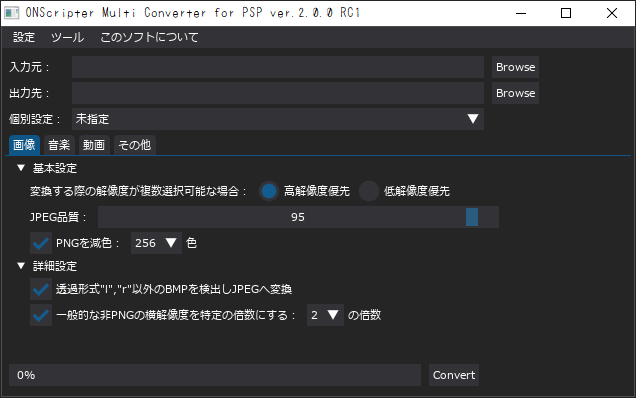
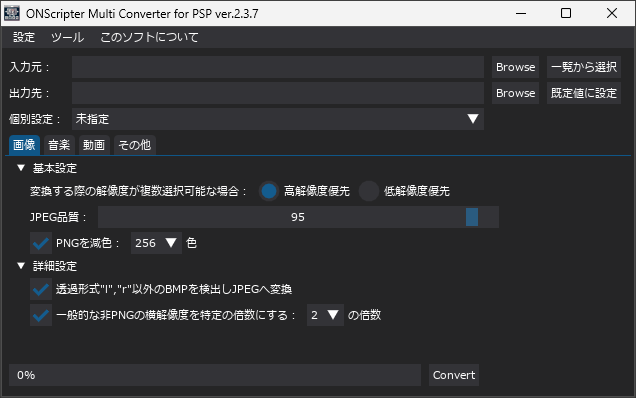
📝 savenumber上書き機能追加

diff --git a/src/hardwarevalues_config.py b/src/hardwarevalues_config.py
@@ -44,6 +44,8 @@ hardwarevalues_dict = {
 			'etc_0txtnoscreenshot': '利用する(関数上書き)',
 			'etc_0txtmaxkaisoupage_chk': True,
 			'etc_0txtmaxkaisoupage_num': '3',
+			'etc_0txtoverwritesavenumber_chk': False,
+			'etc_0txtoverwritesavenumber_num': '10',
 			'etc_0txtsetwindowbigfont_chk': True,
 			'etc_0txtskipokcancelbox_chk': True,
 			'etc_0txtskipyesnobox_chk': True,
@@ -95,6 +97,8 @@ hardwarevalues_dict = {
 			'etc_0txtnoscreenshot': '利用する(関数上書き)',
 			'etc_0txtmaxkaisoupage_chk': True,
 			'etc_0txtmaxkaisoupage_num': '10',
+			'etc_0txtoverwritesavenumber_chk': False,
+			'etc_0txtoverwritesavenumber_num': '10',
 			'etc_0txtsetwindowbigfont_chk': False,
 			'etc_0txtskipokcancelbox_chk': True,
 			'etc_0txtskipyesnobox_chk': True,
@@ -146,6 +150,8 @@ hardwarevalues_dict = {
 			'etc_0txtnoscreenshot': '利用する(関数上書き)',
 			'etc_0txtmaxkaisoupage_chk': True,
 			'etc_0txtmaxkaisoupage_num': '3',
+			'etc_0txtoverwritesavenumber_chk': False,
+			'etc_0txtoverwritesavenumber_num': '10',
 			'etc_0txtsetwindowbigfont_chk': True,
 			'etc_0txtskipokcancelbox_chk': True,
 			'etc_0txtskipyesnobox_chk': True,
@@ -197,6 +203,8 @@ hardwarevalues_dict = {
 			'etc_0txtnoscreenshot': '利用する(関数上書き)',
 			'etc_0txtmaxkaisoupage_chk': False,
 			'etc_0txtmaxkaisoupage_num': '20',
+			'etc_0txtoverwritesavenumber_chk': False,
+			'etc_0txtoverwritesavenumber_num': '10',
 			'etc_0txtsetwindowbigfont_chk': False,
 			'etc_0txtskipokcancelbox_chk': False,
 			'etc_0txtskipyesnobox_chk': False,

diff --git a/src/ons_script.py b/src/ons_script.py
@@ -286,9 +286,12 @@ def onsscript_check_txtmodify(values: dict, values_ex: dict, ztxtscript: str, ov
 	
 	#最大回想ページ数設定
 	if values['etc_0txtmaxkaisoupage_chk']:
-		mk = str(int(values['etc_0txtmaxkaisoupage_num']))
-		ztxtscript = onsscript_check_txtmodify_adddefsub(ztxtscript, f'maxkaisoupage {mk}', '')#本当はdefsub追加用の関数だが流用
-	
+		ztxtscript = onsscript_check_txtmodify_adddefsub(ztxtscript, f'maxkaisoupage {values['etc_0txtmaxkaisoupage_num']}', '')#本当はdefsub追加用の関数だが流用
+
+	#最大セーブ数設定
+	if values['etc_0txtoverwritesavenumber_chk']:
+		ztxtscript = onsscript_check_txtmodify_adddefsub(ztxtscript, f'savenumber {values['etc_0txtoverwritesavenumber_num']}', '')#本当はdefsub追加用の関数だが流用
+
 	#setwindowのフォントサイズ変更(PSP解像度無視変換時は無効)
 	if values['etc_0txtsetwindowbigfont_chk'] and (not override_resolution):
 

diff --git a/src/ui_gui.py b/src/ui_gui.py
@@ -595,6 +595,18 @@ def gui_main(version, hw_key, input_dir_param, output_dir_param):
 								)
 							with dpg.group(horizontal=True):
 								dpg.add_checkbox(
+									label='savenumber上書き：',
+									default_value=values_default['etc_0txtoverwritesavenumber_chk'],
+									tag='etc_0txtoverwritesavenumber_chk',
+								)
+								dpg.add_combo(
+									items=[str(i) for i in range(1, 21)],#1から20をstr型で保持したlist
+									default_value=values_default['etc_0txtoverwritesavenumber_num'],
+									fit_width=True,
+									tag='etc_0txtoverwritesavenumber_num',
+								)
+							with dpg.group(horizontal=True):
+								dpg.add_checkbox(
 									label='setwindow/setwindow3文字潰れ防止',
 									default_value=values_default['etc_0txtsetwindowbigfont_chk'],
 									tag='etc_0txtsetwindowbigfont_chk',

diff --git a/src/_main.py b/src/_main.py
@@ -16,7 +16,7 @@ from ui_cli import cli_main
 
 def main(use_cli, hardware, input_dir, output_dir):
 	'''ONS向け画像/音源/動画&シナリオ変換ツール'''
-	version = '2.3.6'
+	version = '2.3.7'
 
 	if os.name != 'nt': raise Exception('Windows以外では起動できません')
 	elif use_cli: cli_main(version, hardware, input_dir, output_dir)#これ今うまく動いてなさそう?要修正

diff --git a/README_setting.md b/README_setting.md
@@ -1,3 +1,7 @@
+# ツールの設定
+ ![インターフェース](./md_ui_full.png)<br>
+ ※画像は古いバージョンや開発中バージョンの場合があります<br>
+
 ## メニューバー
  - **設定 - CPU使用率低減モード**<br>
  画像や音楽の並列処理数を抑える機能です<br>
@@ -33,11 +37,13 @@
 ## 上段メニュー
  - **入力元**<br>
  [Browse]からゲーム用ディレクトリを指定します<br>
+ v2.3.7から、自動的にゲームを検出して一覧表示する[一覧から選択]も利用できるようになりました<br>
 
  - **出力先**<br>
  [Browse]から出力先の任意のディレクトリを指定します<br>
  実際は`result_{選択したハード名}_{入力元のディレクトリ名}`へ保存されます<br>
  ちなみにディレクトリ名が競合した場合元のデータを**勝手に消す**ので注意！<br>
+ v2.3.7から、デスクトップに自動設定する[既定値に設定]も利用できるようになりました<br>
 
  - **個別設定**<br>
  元々は"ONSコンバータ"として、別リポジトリで管理していたものです<br>
@@ -133,6 +139,11 @@
  - **maxkaisoupage最大値指定**<br>
  バックログで遡れるテキスト数を制限します<br>
  下げれば下げるほど突然のフリーズや謎のセーブ失敗が発生しにくくなります<br>
+
+ - **savenumber上書き**<br>
+ セーブデータの最大数を変更します<br>
+ NScripter標準のセーブ画面を使っていない作品の場合は、<br>
+ 「textgosub命令無効化」も併用してください<br>
 
  - **setwindow/setwindow3文字潰れ防止**<br>
  表示する際に小さすぎて読めないと思われる文字を、<br>

diff --git a/README.md b/README.md
@@ -10,7 +10,7 @@
  <br>
  [制作/検証に使用した作者のPC環境]<br>
  PCスペック: <br>
- [![CPU-Z](https://valid.x86.fr/cache/banner/izbfap-2.png)](https://valid.x86.fr/izbfap)<br>
+ [![CPU-Z](https://valid.x86.fr/cache/banner/uvcxdx-2.png)](https://valid.x86.fr/uvcxdx)<br>
  FFmpeg-version: version 7.1-full_build<br>
  Python-version: Python 3.13.2<br>
 
@@ -77,9 +77,6 @@
 
 
 ### ツールの設定
- ![インターフェース](./md_ui_full.png)<br>
- ※画像は古いバージョンや開発中バージョンの場合があります<br>
- 
  [こちらに詳しく書いてあります](./README_setting.md)<br>
 ~~よくわからないならハード変更だけしてあと入力/出力指定してconvert押せばいいと思います~~
 
